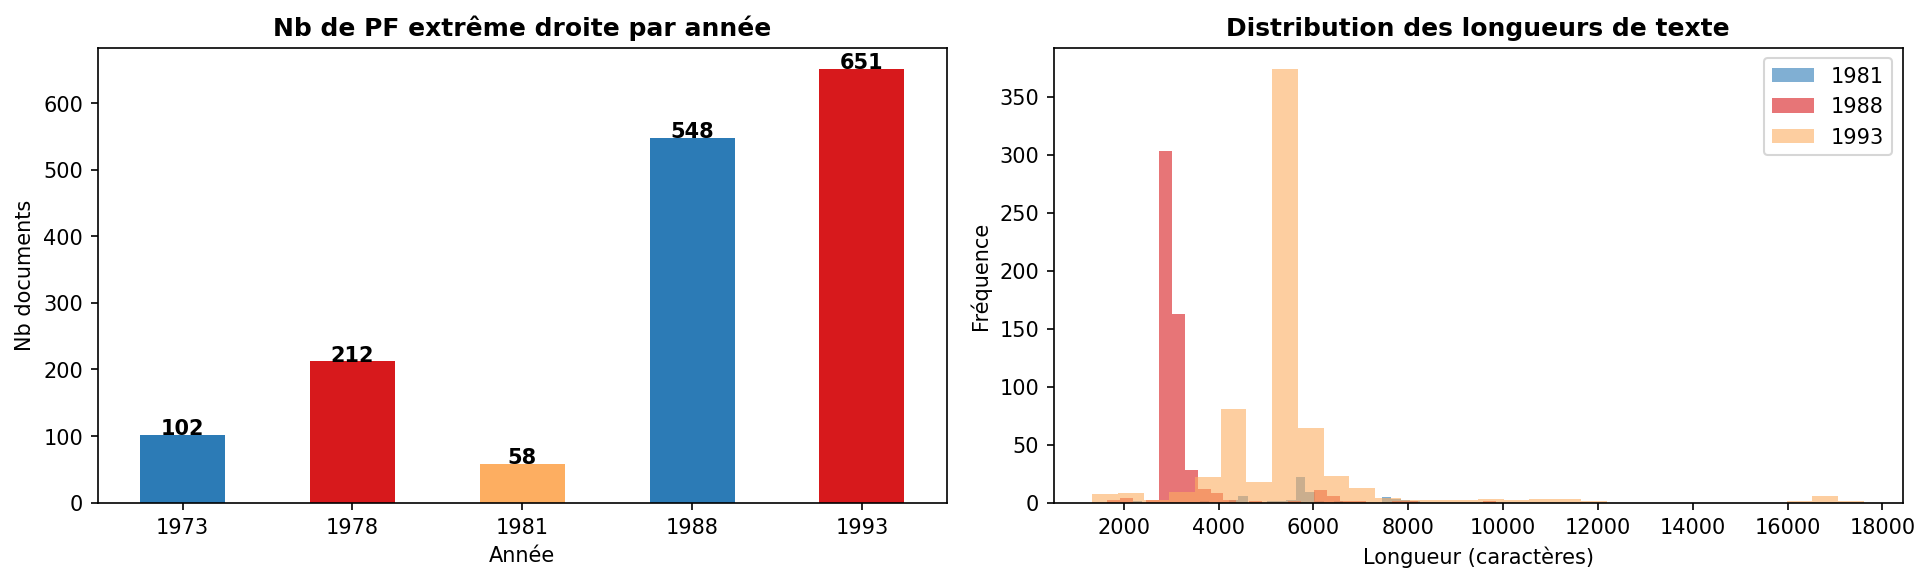
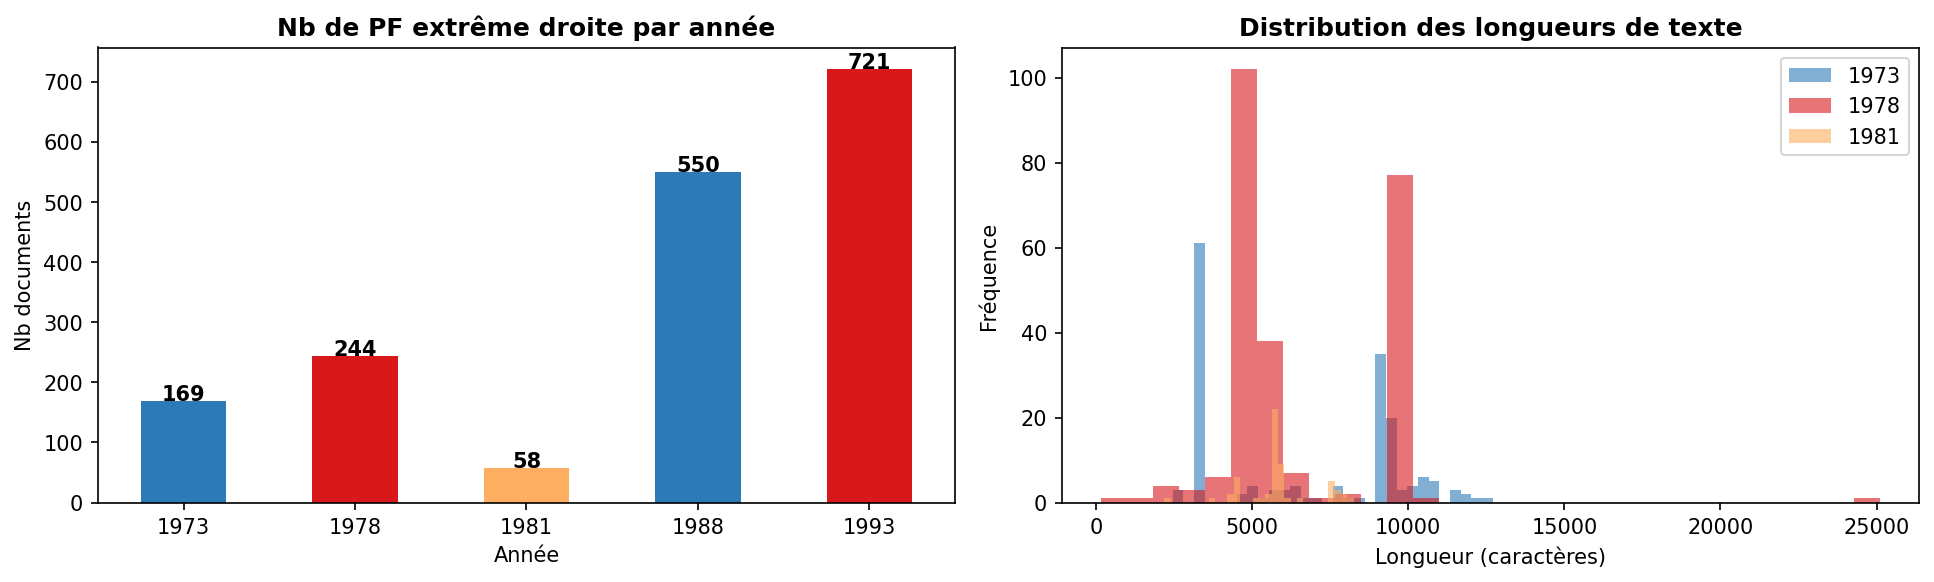
refait la visualisation - il manque toujours des candidats en 1981 ?

diff --git a/main.py b/main.py
@@ -1,7 +1,7 @@
 # imports : 
 from cleaning_data.processing import check_arbre, parse_filename, load_corpus, load_metadata, enrich_with_ed_flag
 import os, re, unicodedata, textwrap
-
+import matplotlib.pyplot as plt
 from pathlib import Path
 import pandas as pd 
 
@@ -59,3 +59,5 @@ df_meta = load_metadata(path = META_PATH)
 df_full = enrich_with_ed_flag(df_all, df_meta, ED_PATH, ED_PARTIS)
 # au cas où : 
 # df_full.to_csv("full_dataset.csv")
+
+df_ed = df_full[df_full["is_ed"]==1]
